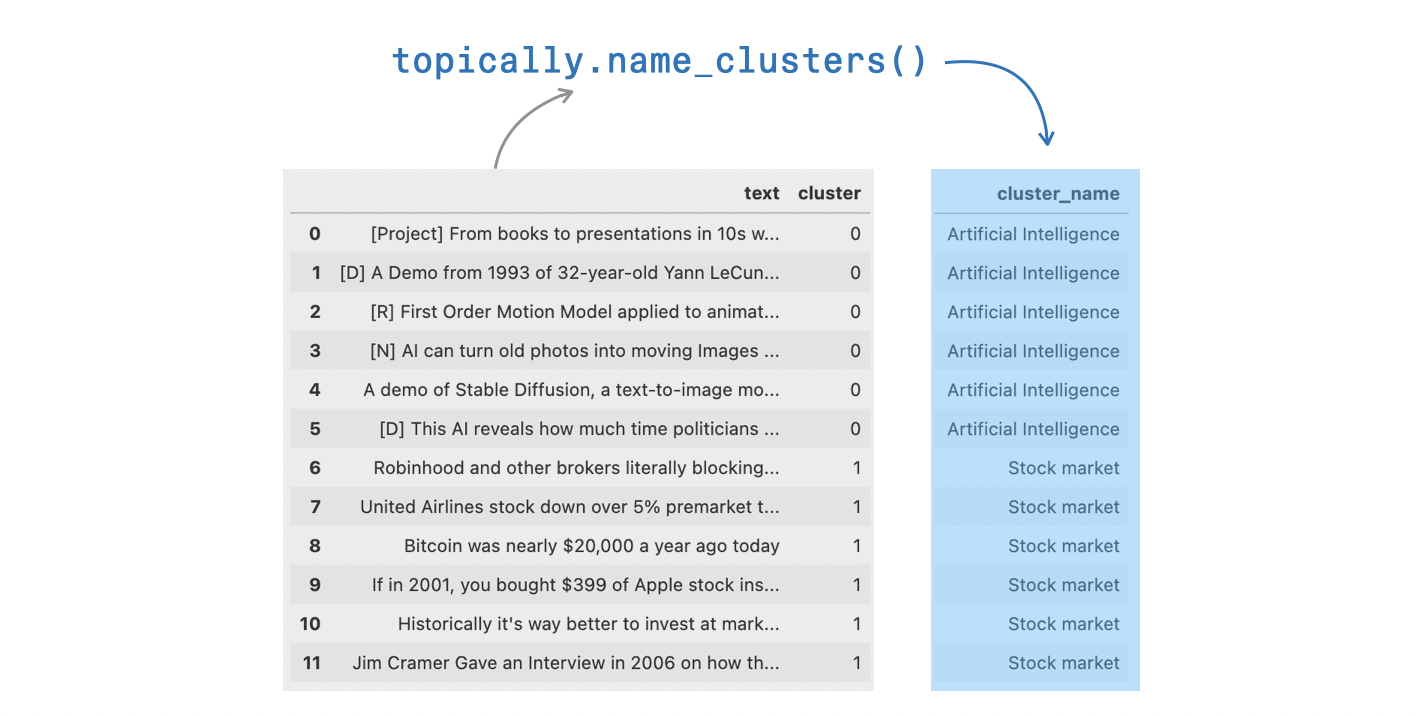
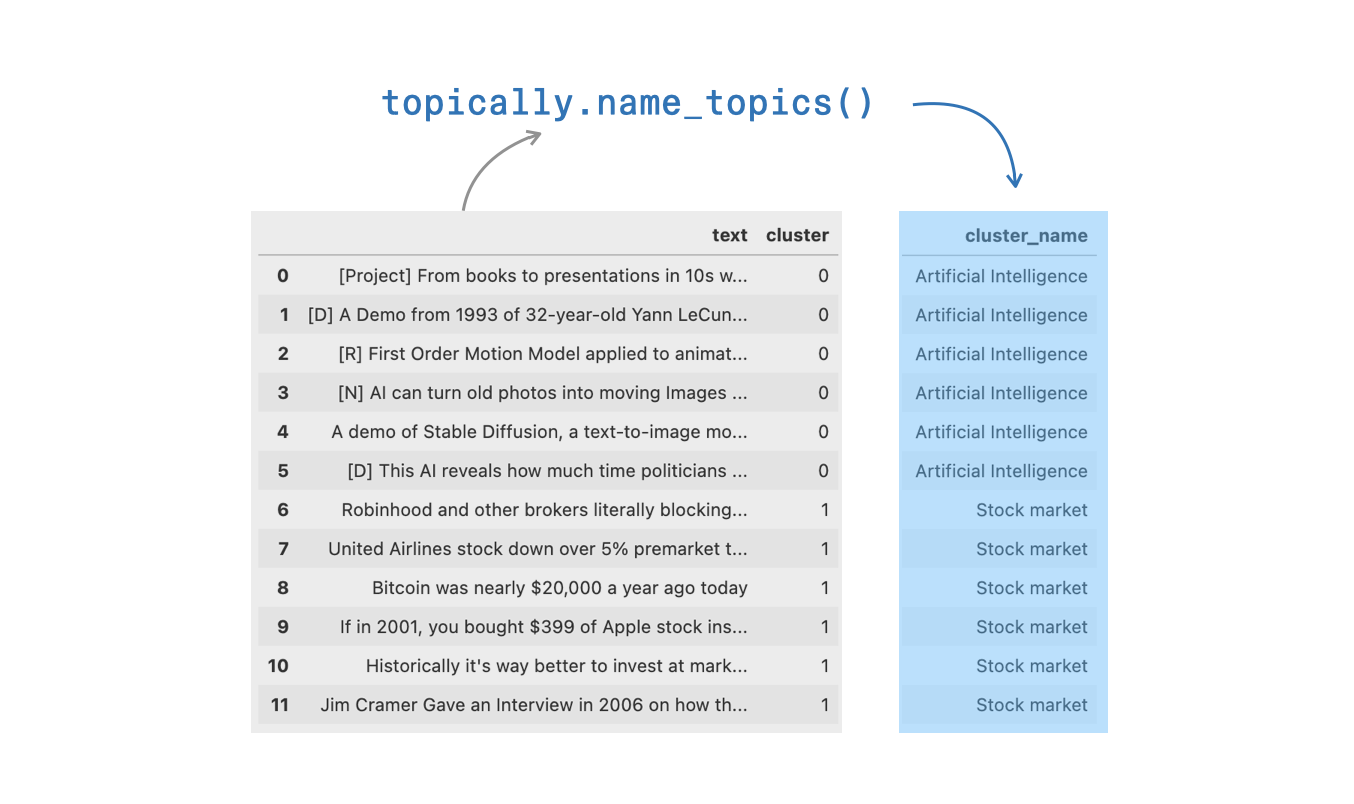
Updated README with more visuals

diff --git a/README.md b/README.md
@@ -27,13 +27,11 @@
 # A picture is worth a thousand sentences
 
 <img src="./assets/topic-modeling-picture-thousand-texts.png" />
-When you want to explore thousands or millions of texts (messages, emails, news headlines), topic modeling tools help you make sense of them in an instance.
+When you want to explore thousands or millions of texts (messages, emails, news headlines), topic modeling tools help you make sense of them rapidly and visually.
 
 # Topically
 
 Topically is a \[work-in-progress\] suite of tools that help make sense of text collections (messages, articles, emails, news headlines) using large language models.
-
-<img src="./assets/topically_name_topics.png" />"
 
 Topically's first feature is to name clusters of texts based on their content. For example, here are news headlines from the machinelearning and investing subreddits, and the names suggested for them by topically:
 
@@ -80,7 +78,13 @@ Output:
 In this simple example, we know the cluster assignments. In actual applications, a topic modeling library like BERTopic can cluster the texts for us, and then we can name them with topically. 
 
 # Usage Example: Topically + BERTopic
-Use Topically to name clusters in the course of topic modeling with tools like BERTopic. Get the cluster assignments from BERTopic, and name the clusters with topically. Here's example code and a colab notebook demonstrating this.
+Use Topically to name clusters in the course of topic modeling with tools like BERTopic. Get the cluster assignments from BERTopic, and name the clusters with topically. This improves on the keyword topic labels (and can build upon them).
+
+
+<img src="./assets/topically_name_topics.png" />
+
+
+Here's example code and a colab notebook demonstrating this.
 
 <a href="https://colab.research.google.com/github/cohere-ai/sandbox-topically/blob/main/notebooks/Intro%20-%20Topically%20with%20BERTopic.ipynb" target="_parent\"><img src="https://colab.research.google.com/assets/colab-badge.svg" alt="Open In Colab"/></a>
 
@@ -101,9 +105,9 @@ df['topic'], probabilities = topic_model.fit_transform(df['title'], embeds)
 app = Topically('cohere_api_key')
 
 # name clusters
-df['topic_names'] = app.name_topics((df['title'], df['topic']))
+df['topic_name'] = app.name_topics((df['title'], df['topic']))
 
-df[['title', 'topic', 'topic_names']]
+df[['title', 'topic', 'topic_name']]
 ```
 
 
